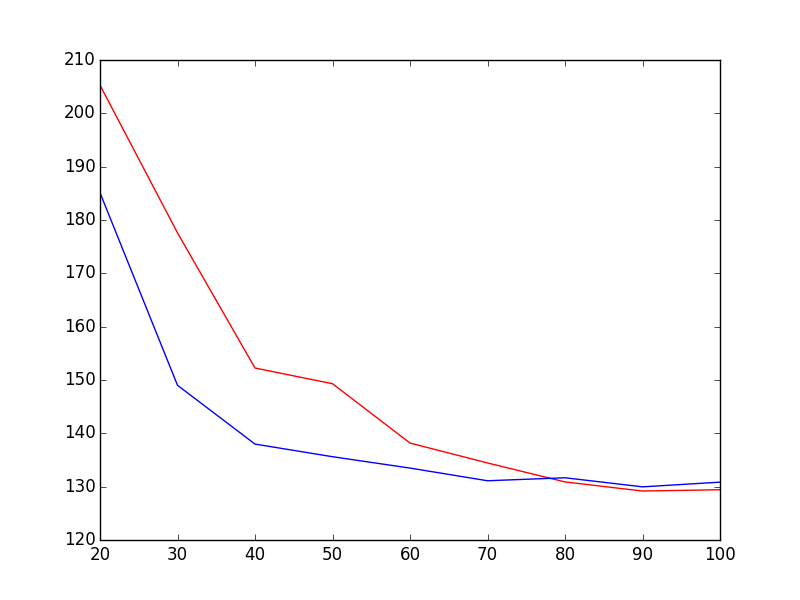
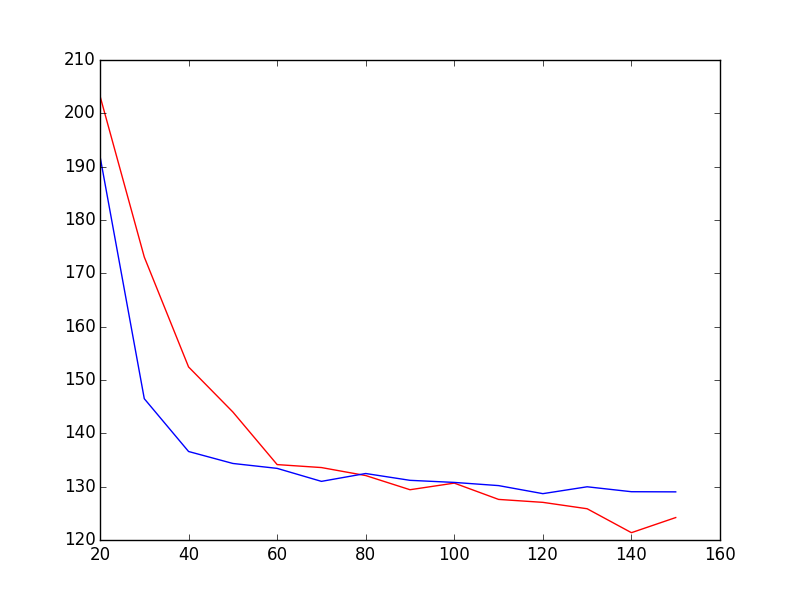
Updated picture

diff --git a/TrainValidate.py b/TrainValidate.py
@@ -3,9 +3,9 @@ import matplotlib.pyplot as plt
 
 numProds=5
 lengthPrefLists=2
-T=200
-T_trainList=[20,30,40,50,60,70,80,90,100]
-numTrials=100
+T=250
+T_trainList=[20,30,40,50,60,70,80,90,100, 110,120,130,140,150]
+numTrials=50
 
 nonParamTestList=[]
 twoStageTestList=[]
